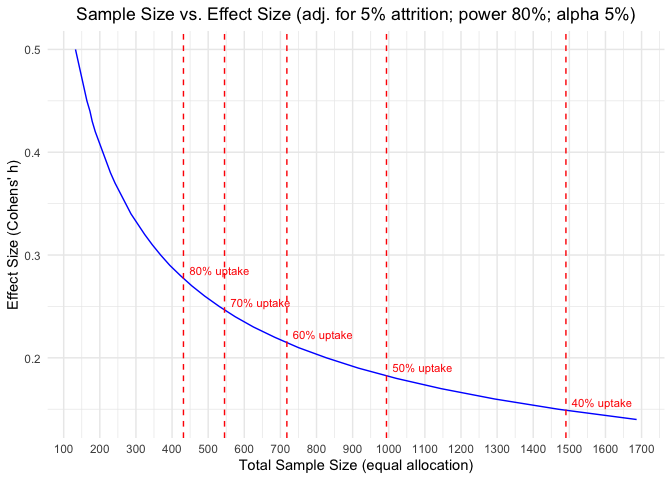
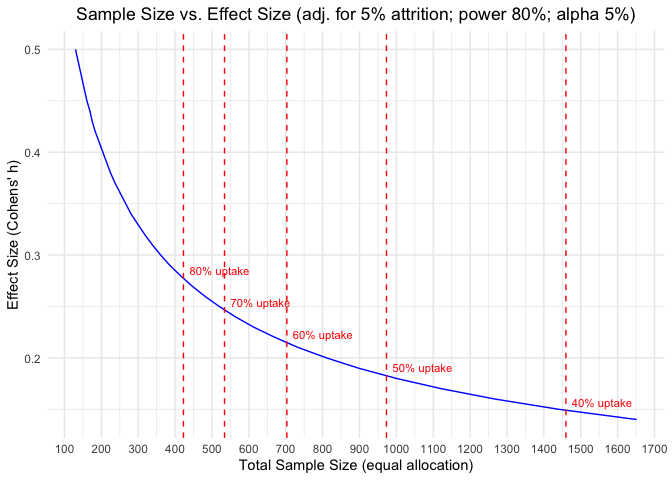
Updated attrition rate

diff --git a/TwiCs_samplesize.md b/TwiCs_samplesize.md
@@ -1,7 +1,7 @@
 ---
 title: "TwiCs_samplesize"
 author: "A.Amstutz"
-date: "2024-08-05"
+date: "2024-08-28"
 output:
   html_document:
     keep_md: yes
@@ -88,12 +88,12 @@ library(pwr) # package for standard sample size calculations: https://cran.r-pro
 ## Fix parameters
 
 ```r
-p_cont <- 0.085 # Estimated cessation proportion in control group
-p_int_uptake <- 0.2 # Estimated cessation proportion in intervention group, among uptakers
-p_int_non_uptake <- 0.085 # Estimated cessation proportion in intervention group, among non-uptakers
+p_cont <- 0.085 # Estimated cessation proportion in control group (see study protocol)
+p_int_uptake <- 0.2 # Estimated cessation proportion in intervention group, among uptakers (see study protocol)
+p_int_non_uptake <- 0.085 # Estimated cessation proportion in intervention group, among non-uptakers (see study protocol)
 alpha <- 0.05 # Significance level
 power <- 0.80 # Desired power, keep it fixed at min. 80%
-attrition <- 0.05 # attrition/LTFU rate across both arms
+attrition <- 0.03 # attrition/LTFU rate across both arms (see Updated SHCS cohort profile publication Scherrer et al.)
 ```
 
 ## 70% uptake incorporated in intervention, according to Reeves et al
@@ -138,7 +138,7 @@ cat("Adjusted Sample Size per Arm (accounting for attrition):", ceiling(sample_s
 ```
 
 ```
-## Adjusted Sample Size per Arm (accounting for attrition): 273
+## Adjusted Sample Size per Arm (accounting for attrition): 267
 ```
 
 ```r
@@ -146,7 +146,7 @@ cat("Total Sample Size (incl. accounting for attrition):", ceiling(sample_size),
 ```
 
 ```
-## Total Sample Size (incl. accounting for attrition): 546
+## Total Sample Size (incl. accounting for attrition): 534
 ```
 
 ```r
@@ -211,7 +211,7 @@ cat("Adjusted Sample Size per Arm (accounting for attrition):", ceiling(sample_s
 ```
 
 ```
-## Adjusted Sample Size per Arm (accounting for attrition): 358
+## Adjusted Sample Size per Arm (accounting for attrition): 351
 ```
 
 ```r
@@ -219,7 +219,7 @@ cat("Total Sample Size (incl. accounting for attrition):", ceiling(sample_size),
 ```
 
 ```
-## Total Sample Size (incl. accounting for attrition): 716
+## Total Sample Size (incl. accounting for attrition): 702
 ```
 
 ```r
@@ -270,7 +270,7 @@ cat("Adjusted Sample Size per Arm (accounting for attrition):", ceiling(sample_s
 ```
 
 ```
-## Adjusted Sample Size per Arm (accounting for attrition): 497
+## Adjusted Sample Size per Arm (accounting for attrition): 486
 ```
 
 ```r
@@ -278,7 +278,7 @@ cat("Total Sample Size (incl. accounting for attrition):", ceiling(sample_size),
 ```
 
 ```
-## Total Sample Size (incl. accounting for attrition): 993
+## Total Sample Size (incl. accounting for attrition): 972
 ```
 
 ```r
@@ -381,7 +381,7 @@ cat("Adjusted Sample Size for Control Arm (accounting for attrition):", ceiling(
 ```
 
 ```
-## Adjusted Sample Size for Control Arm (accounting for attrition): 1158
+## Adjusted Sample Size for Control Arm (accounting for attrition): 1134
 ```
 
 ```r
@@ -389,7 +389,7 @@ cat("Total Adjusted Sample Size (accounting for attrition):", ceiling(n_tot_adju
 ```
 
 ```
-## Total Adjusted Sample Size (accounting for attrition): 1474
+## Total Adjusted Sample Size (accounting for attrition): 1443
 ```
 
 ### According to pwr
@@ -417,7 +417,7 @@ cat("Adjusted Sample Size for Control Arm (accounting for attrition):", ceiling(
 ```
 
 ```
-## Adjusted Sample Size for Control Arm (accounting for attrition): 1158
+## Adjusted Sample Size for Control Arm (accounting for attrition): 1134
 ```
 
 ```r
@@ -425,7 +425,7 @@ cat("Total Adjusted Sample Size (accounting for attrition):", ceiling(n_tot_adju
 ```
 
 ```
-## Total Adjusted Sample Size (accounting for attrition): 1474
+## Total Adjusted Sample Size (accounting for attrition): 1443
 ```
 
 ```r
@@ -484,7 +484,7 @@ cat("Required Sample Size_pwr:", round(sample_size_final, 0))
 ```
 
 ```
-## Required Sample Size_pwr: 208
+## Required Sample Size_pwr: 204
 ```
 => correct, see UMBRELLA-FIT (but they used ANCOVA, not t-test => further reduction in sample size)
 
